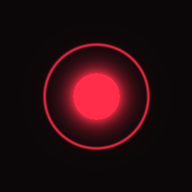
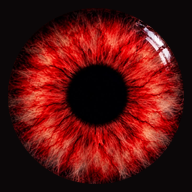
Add files via upload

diff --git a/README.md b/README.md
@@ -1,21 +1,30 @@
-# ULTRON: install as an app on your phone
+# ULTRON
 
-## 1. Put the files on GitHub
-Extract this zip (the Files app on Android can do it). Create a free GitHub account and a new repository, then upload every file from the folder (all files sit in one folder, no subfolders).
+An installable AI assistant app (PWA): chat, voice, photos and videos, hands-free "Hey ULTRON", and one-tap phone actions.
+Powered by Google's Gemini free tier. Red-and-black theme.
 
-## 2. Deploy on Render
-In Render: New > Web Service > connect your repository.
-- Start Command: `node server.js`
-- Environment variables:
-  - `ANTHROPIC_API_KEY`: your key from console.anthropic.com
-  - `APP_TOKEN`: a secret access code you choose (without it, anyone with the link can use your key)
-  - `ANTHROPIC_MODEL` (optional): defaults to `claude-sonnet-5-5`
+## Features
+Chat with streaming replies, voice messages, photos and videos, spoken replies, hands-free "Hey ULTRON", one-tap phone actions, four personalities (Villain, Plain, Coder, Teacher), memory ("remember that ..."), past chats, regenerate, text size, share-to-ULTRON and launcher shortcuts.
 
-Render gives you an address like `https://ultron-xxxx.onrender.com`. Free services sleep when idle, so the first message after a while can take about 30 seconds.
+## Files
+`server.js` (the server), `index.html` (the app), `sw.js` (offline cache), `manifest.webmanifest`, `face.jpg`, `icon-192.png`, `icon-512.png`, `icon-maskable-512.png`, `package.json`.
+Keep all files in one folder (no subfolders).
 
-## 3. Install it
-Open the address in Chrome on your phone. Tap the ⋮ menu, then **Install app** (or **Add to Home screen**). ULTRON now opens full screen from its own icon.
-The first message asks for your access code once.
+## Deploy (Render, free)
+1. Put every file in a GitHub repository.
+2. Render > New > Web Service > pick the repository. Start Command: `node server.js`. Instance type: Free.
+3. Environment variables:
+   - `GEMINI_API_KEY`: free key from aistudio.google.com (required)
+   - `APP_TOKEN`: your secret access code (strongly recommended)
+   - `TTS_VOICE` (optional): Algenib, Gacrux, Charon, Orus or Alnilam
+   - `GEMINI_MODEL`, `TTS_MODEL` (optional): override the model lists
+4. Open the Render address in Chrome > menu > Install app.
 
-## Updating
-Upload the changed file to GitHub. Render redeploys and the app updates itself.
+## Update
+Upload the changed files to GitHub. Render redeploys by itself (about a minute).
+Open ULTRON; if you see "A new version is ready", tap Update. Otherwise open it twice.
+
+## Good to know
+- The free Gemini plan has daily and per-minute limits, and the studio voice has very small ones. ULTRON falls back to your phone's voice.
+- Hands-free works only while the app is open and the screen is on.
+- Anything you attach or say is sent to Google's Gemini.
